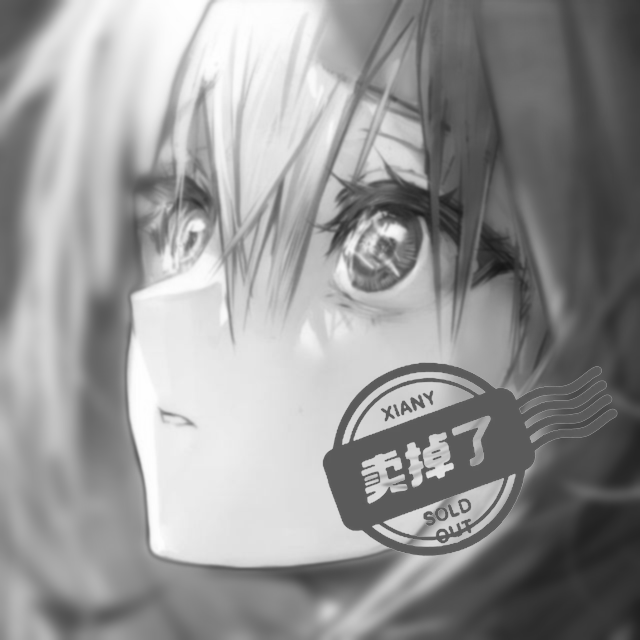
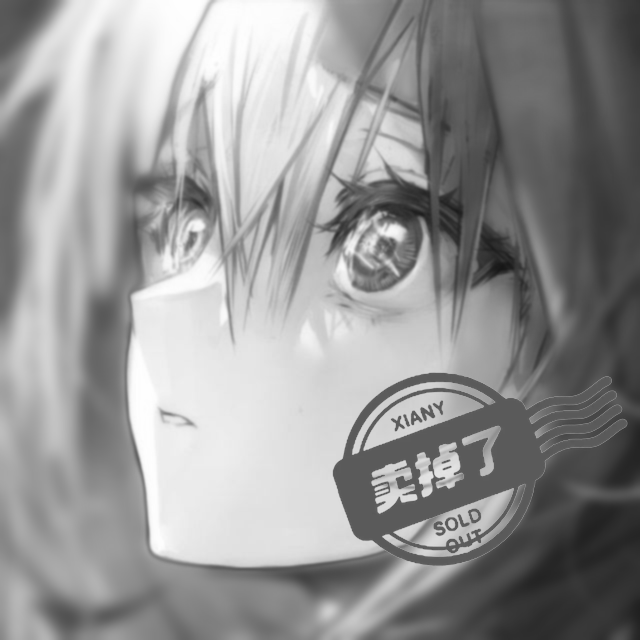
2025.5.17

Changed region(s): [[0.5, 0.5625, 1.0, 0.9062]]

diff --git a/sold-out/sold.py b/sold-out/sold.py
@@ -36,14 +36,14 @@ def create_sold_out_image():
         subject_bottom = bbox[3]
         
         # 计算水印位置，避免遮挡主体
-        x = max(item_img.width - watermark.width - 20,  # 默认右边距20像素
-               min(subject_right - watermark.width, item_img.width - watermark.width - 20))  # 确保不超出图片边界
-        y = max(item_img.height - watermark.height - 20,  # 默认下边距20像素
-               min(subject_bottom - watermark.height, item_img.height - watermark.height - 20))  # 确保不超出图片边界
+        x = max(item_img.width - watermark.width - 10,  # 默认右边距10像素
+               min(subject_right - watermark.width, item_img.width - watermark.width - 15))  # 确保不超出图片边界
+        y = max(item_img.height - watermark.height - 10,  # 默认下边距10像素
+               min(subject_bottom - watermark.height, item_img.height - watermark.height - 15))  # 确保不超出图片边界
     else:
         # 如果未检测到主体，使用默认位置（右下角）
-        x = item_img.width - watermark.width - 20
-        y = item_img.height - watermark.height - 20
+        x = item_img.width - watermark.width - 10
+        y = item_img.height - watermark.height - 10
     
     # 将水印粘贴到灰度图上
     gray_img.paste(watermark, (x, y), watermark)
